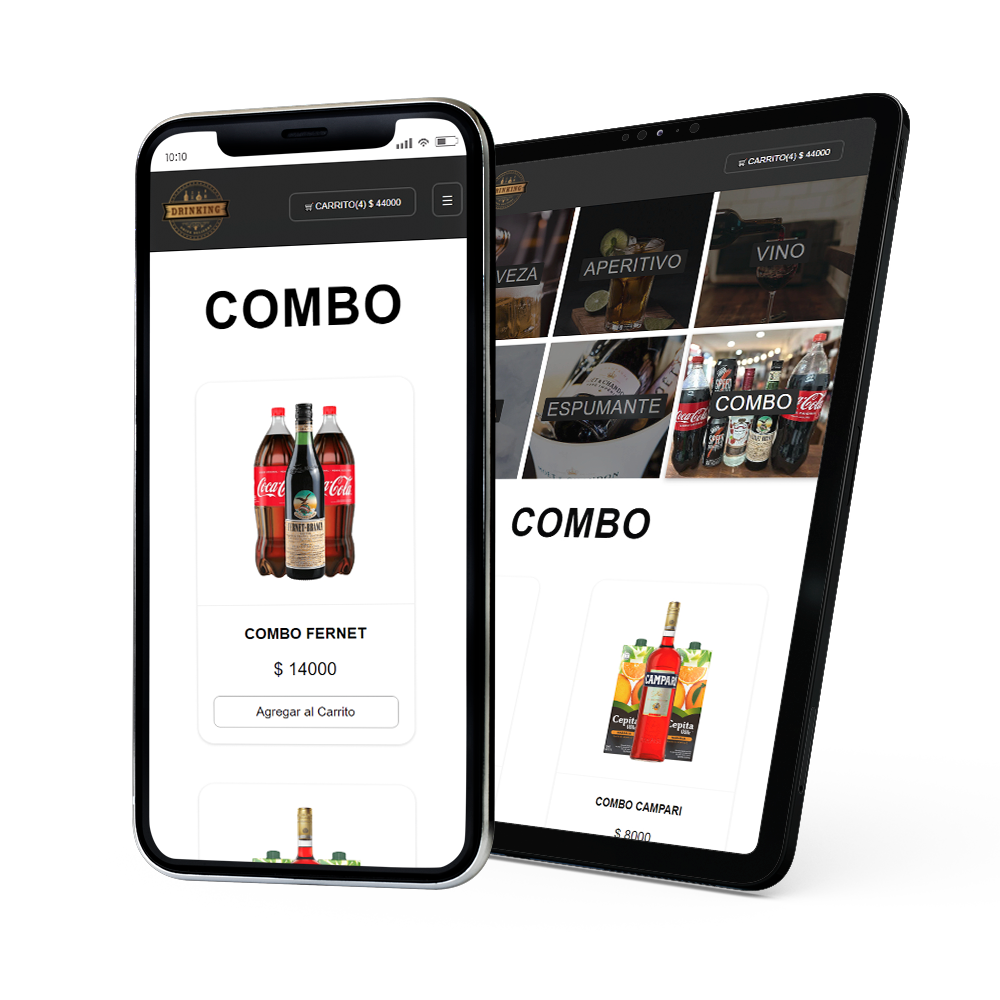
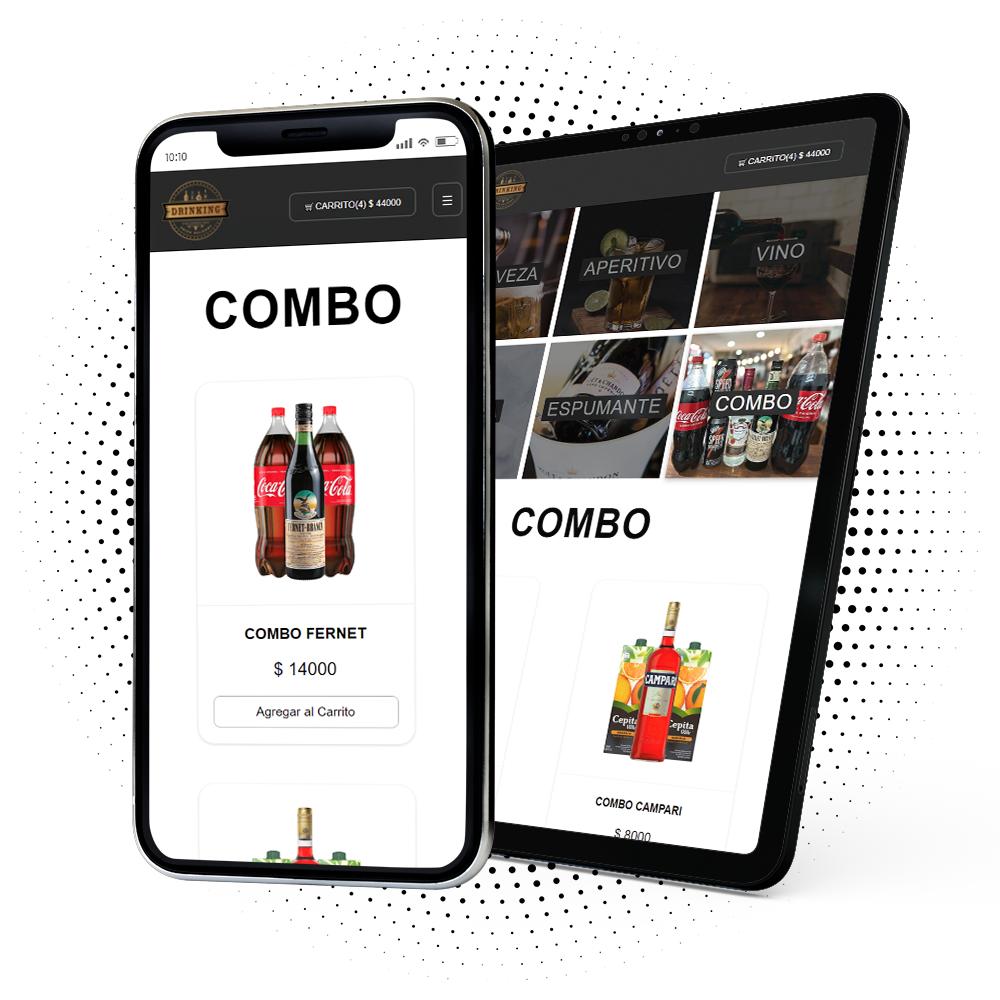
img portada

diff --git a/index.html b/index.html
@@ -24,7 +24,7 @@
                 <button id="descargar_app">Descargar App</button>
             </div>
             <div class="portada_imagen">
-                <img src="/img/portada2.png" alt="Presentacion de App en Dispositivos Moviles">
+                <img src="/img/portada.png" alt="Presentacion de App en Dispositivos Moviles">
             </div>
         </section>
         <section class="navegacion">
